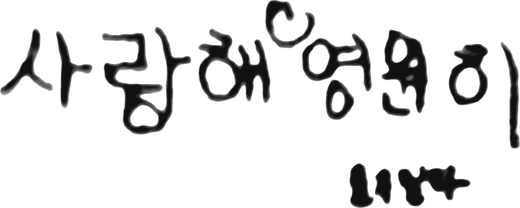
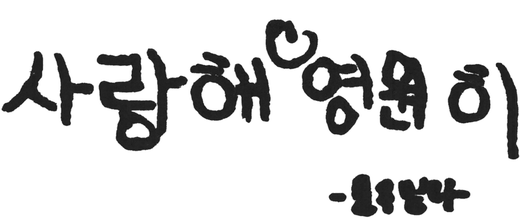
윤우 빌리 도장을 선명한 스캔본으로 교체 — 0091
같은 파일명 덮어쓰기라 imgVer 2→3으로 캐시 버스트. CFG_VER 17, stamp.js v43.

Changed region(s): [[0.0, 0.0, 0.8308, 0.6923], [0.8615, 0.2019, 1.0, 0.7212], [0.6154, 0.7788, 0.9231, 1.0]]

diff --git a/js/stamp.js b/js/stamp.js
@@ -40,7 +40,7 @@
   function baseReady(){ return typeof showUrl==="function" && showUrl("_").charAt(0)==="/"; }
   // stamp.json 콘텐츠 버전 — 커밋 SHA(BUILD)로 매 배포 버스트하지 않고, 이 설정 파일을 실제로 바꿀 때만 올린다.
   // 버전이 소스(여기)에 박혀 있어 로컬·배포 모두 ?v가 붙으므로 no-store가 필요 없다.
-  var CFG_VER = 16;
+  var CFG_VER = 17;
   function loadConfig(){
     if(CFG) return Promise.resolve(CFG);
     if(cfgPromise) return cfgPromise;

diff --git a/index.html b/index.html
@@ -491,6 +491,6 @@
 <script src="/js/app.js?v=212"></script>
 <script src="/js/dropbox.js?v=6"></script>
 <script src="/js/finale.js?v=81"></script>
-<script src="/js/stamp.js?v=42"></script>
+<script src="/js/stamp.js?v=43"></script>
 </body>
 </html>

diff --git a/requests/0091.md b/requests/0091.md
@@ -51,3 +51,4 @@
   - **텍스트(임시) 도장 버튼은 빨간 도장색**(#a43233).
   - 종이색 배경을 텍스트(임시) 도장 버튼까지 확장 — 6개 버튼 모두 통일(styles.css v180).
 - 윤우 빌리 손글씨("사랑해 영원히 -윤우빌리-") 도착 → `stamp-yunwoo-billy.png` 추가(사진 원본이라 레벨 스트레치로 잉크만 추출: inv-60~190 구간), `yunwoo-billy` 타입에 `image`·라벨 반영. `CFG_VER` 16, stamp.js v42.
+- 윤우 빌리 도장을 선명한 스캔본으로 교체(같은 파일명 덮어씀) — 이미지 캐시 버스트를 위해 `imgVer` 2→3. `CFG_VER` 17, stamp.js v43.
